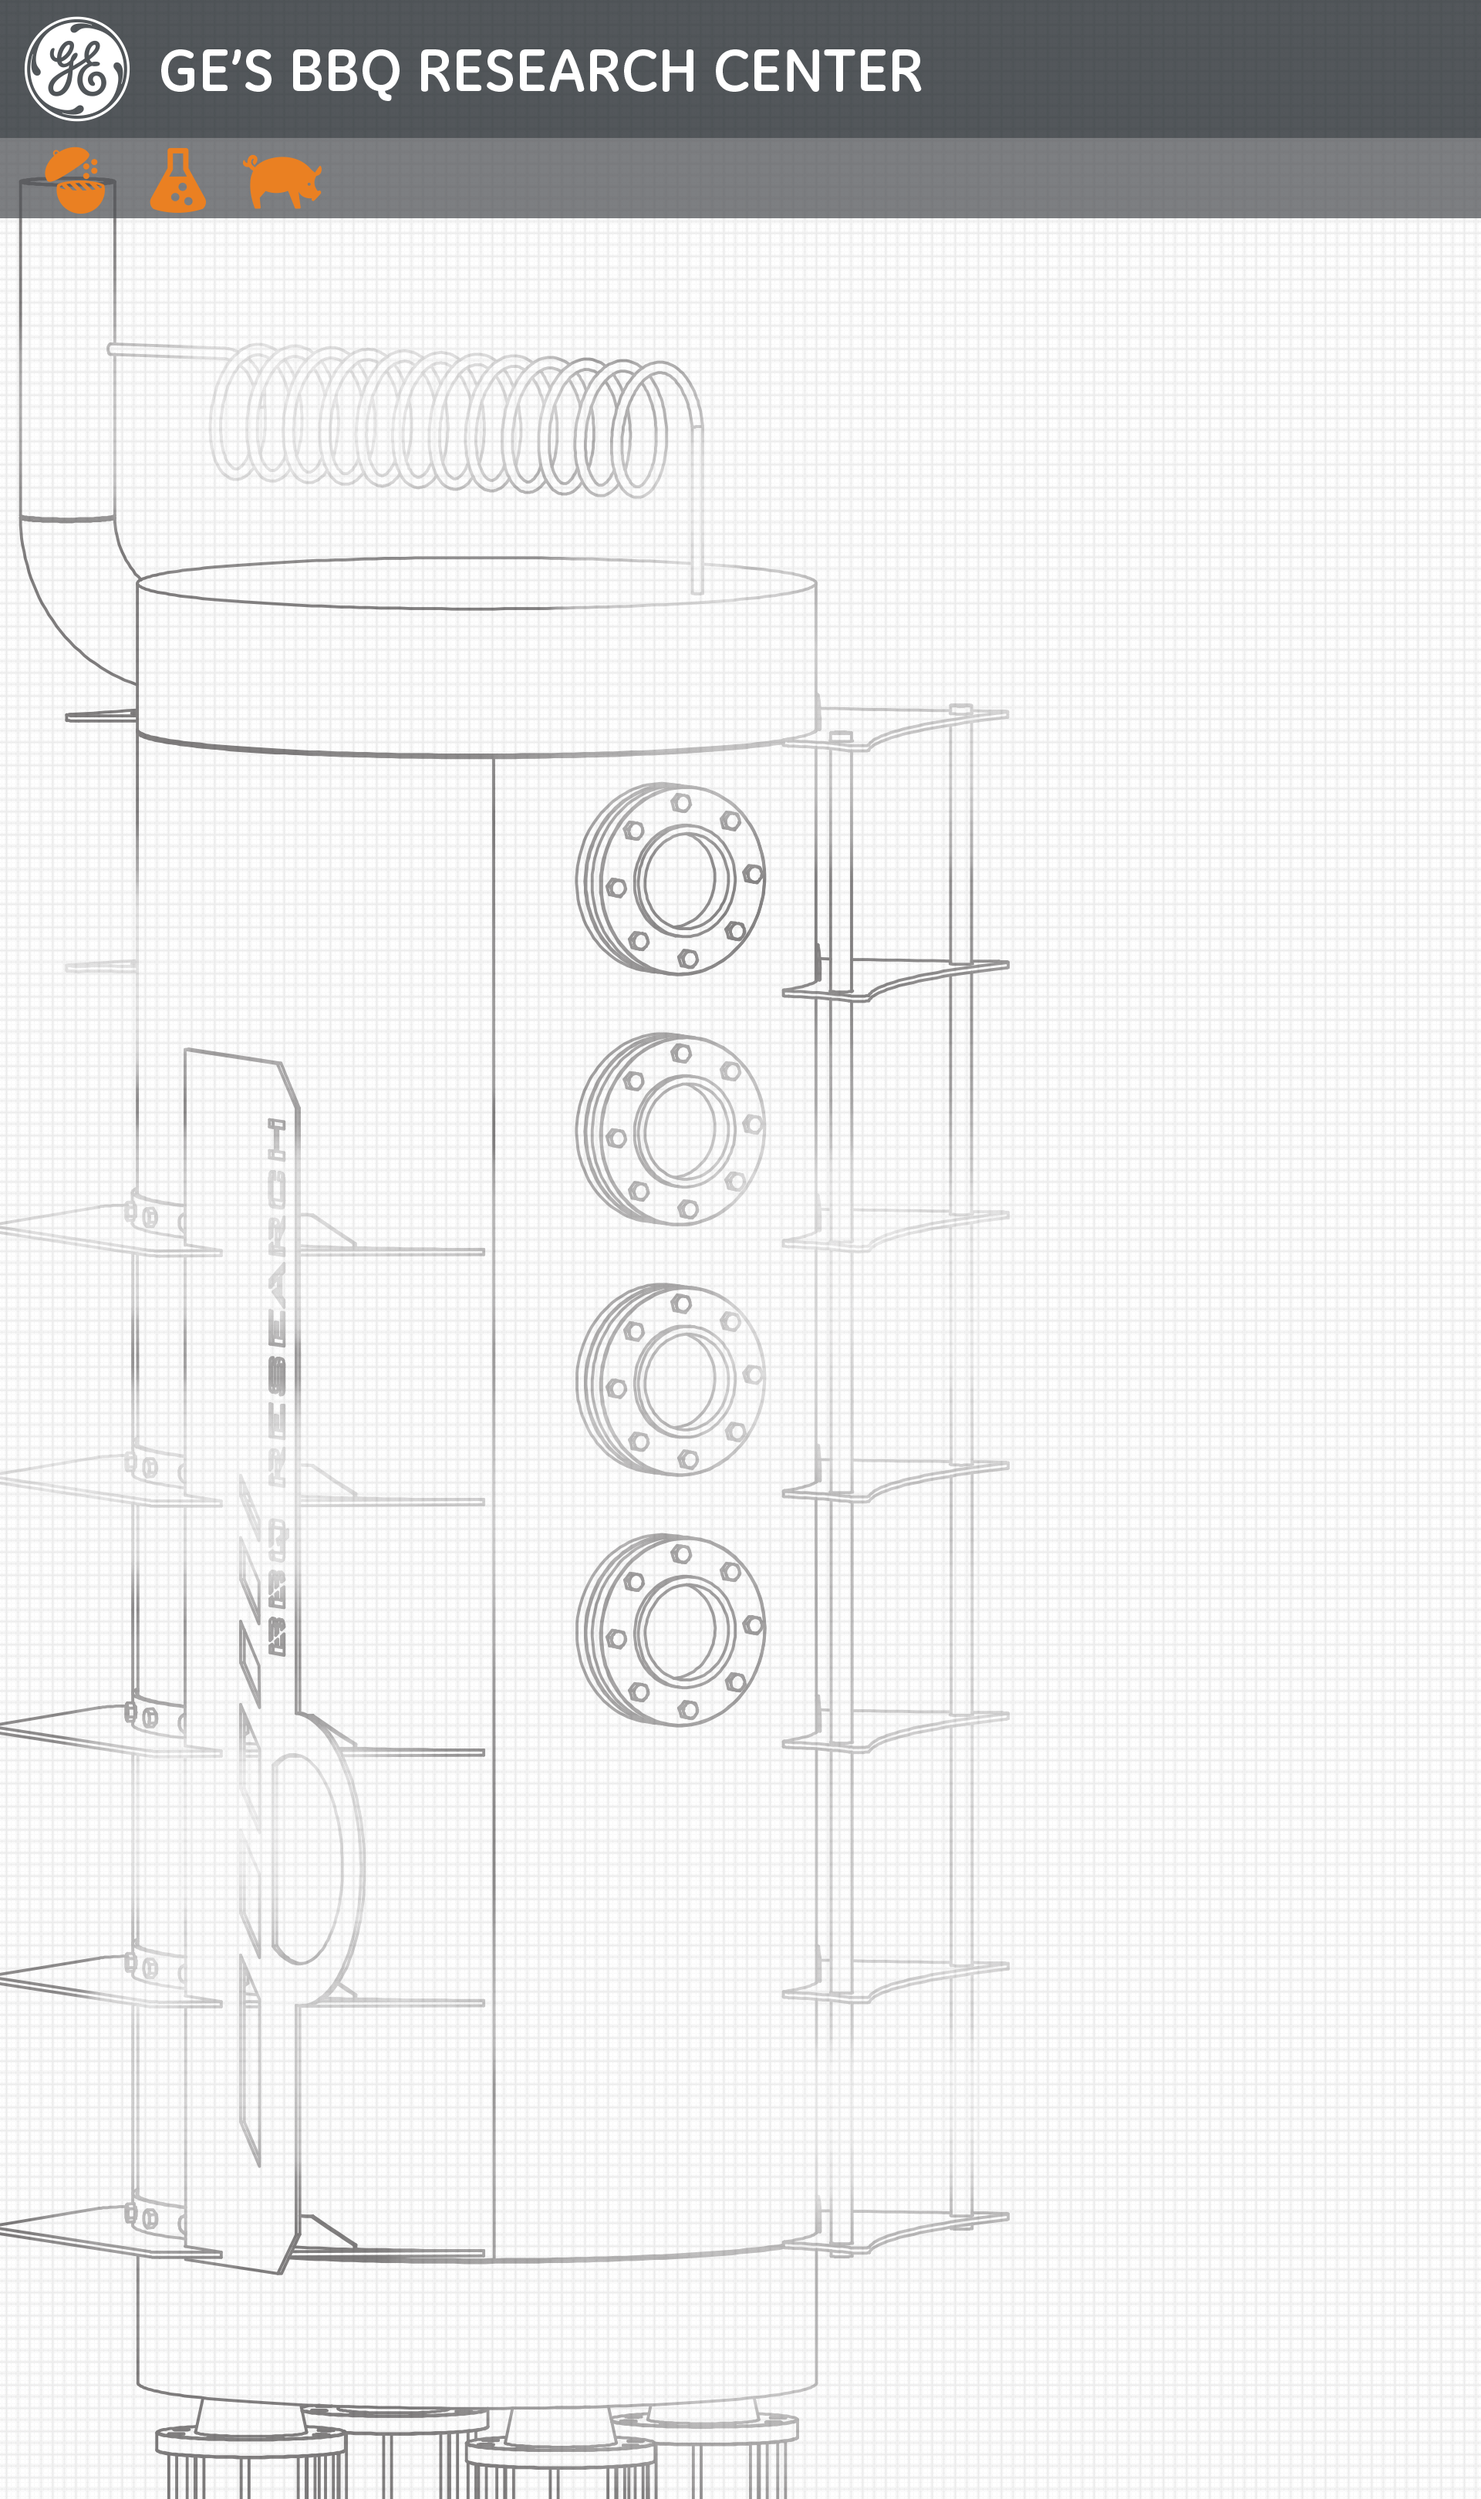
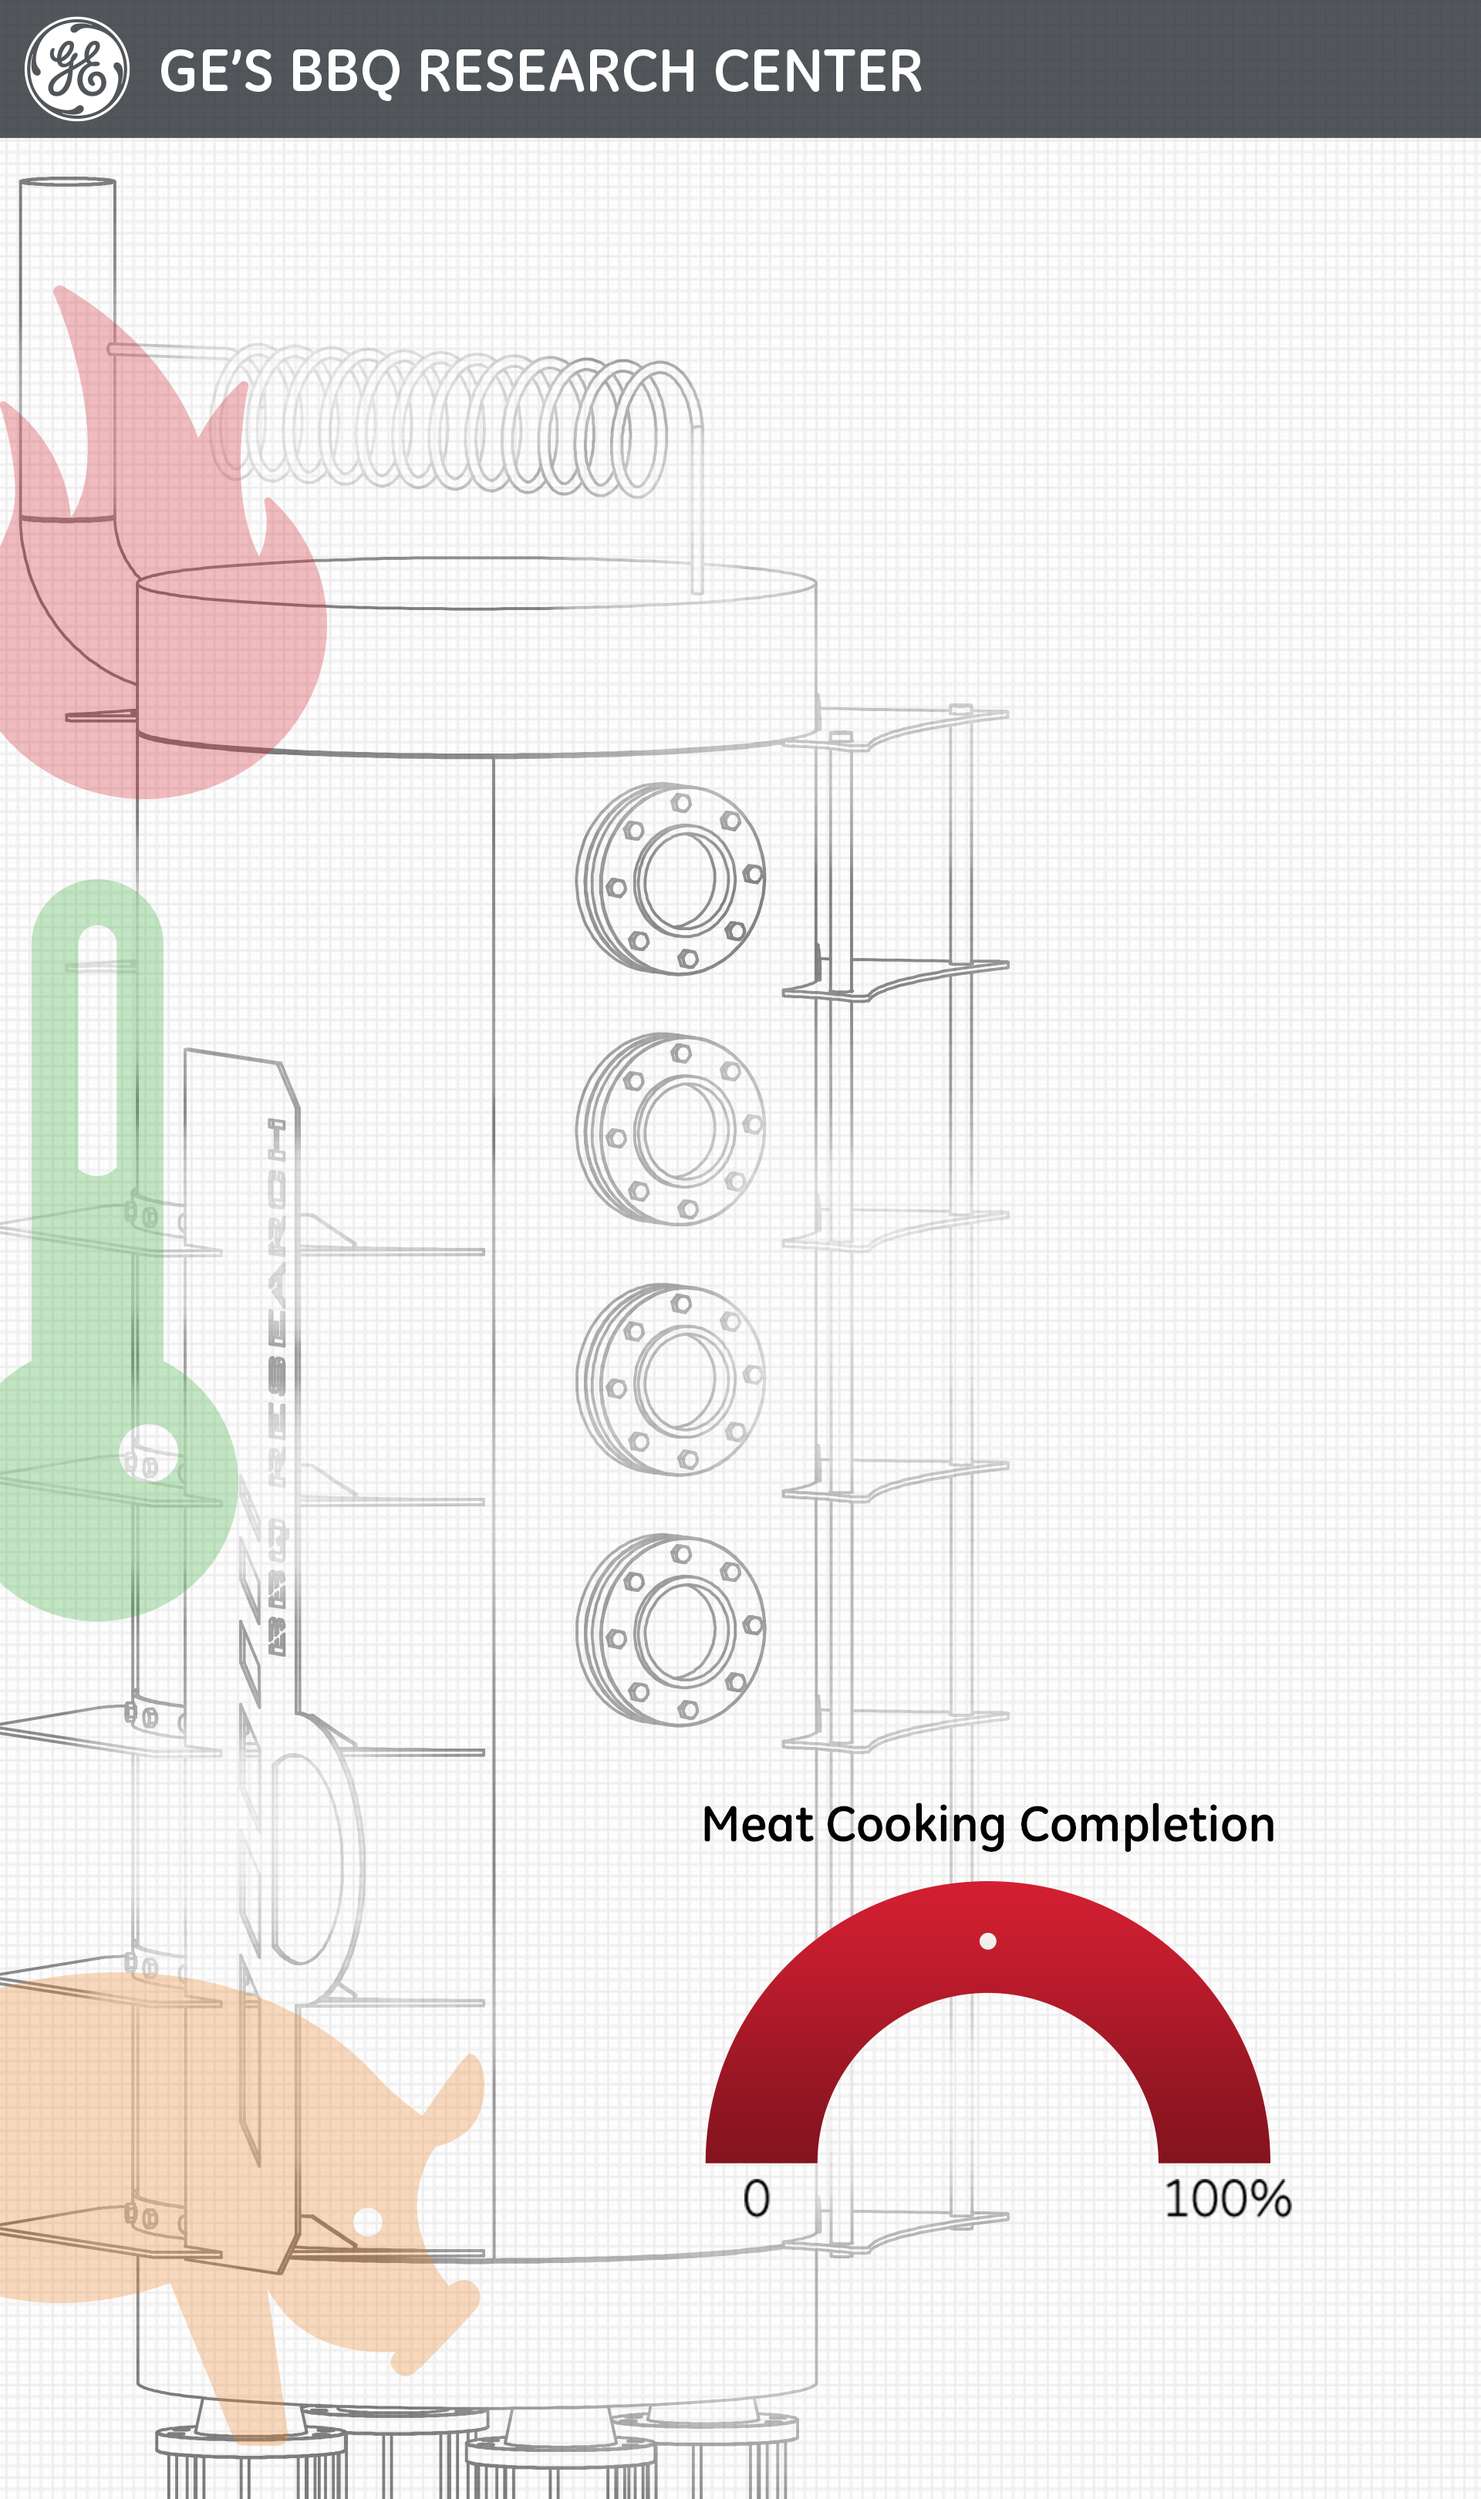
updated bg images

Changed region(s): [[0.0, 0.0312, 1.0, 0.6546], [0.0, 0.7793, 0.3438, 0.9975], [0.4688, 0.717, 0.875, 0.904]]

diff --git a/GE_smoker-screen3/src/ofApp.cpp b/GE_smoker-screen3/src/ofApp.cpp
@@ -29,7 +29,7 @@ void ofApp::update(){
     }
     else{
         //generate some rando values...
-        t1 = ofRandom(150,450);
+        t1 = ofRandom(0,220);
         t2 = ofRandom(150,450);
     }
     
@@ -54,6 +54,8 @@ void ofApp::update(){
 void ofApp::draw(){
     //update screen image from FBO
     ui.draw();
+    
+   // dial.draw(1300,642);
 }
 
 //--------------------------------------------------------------
